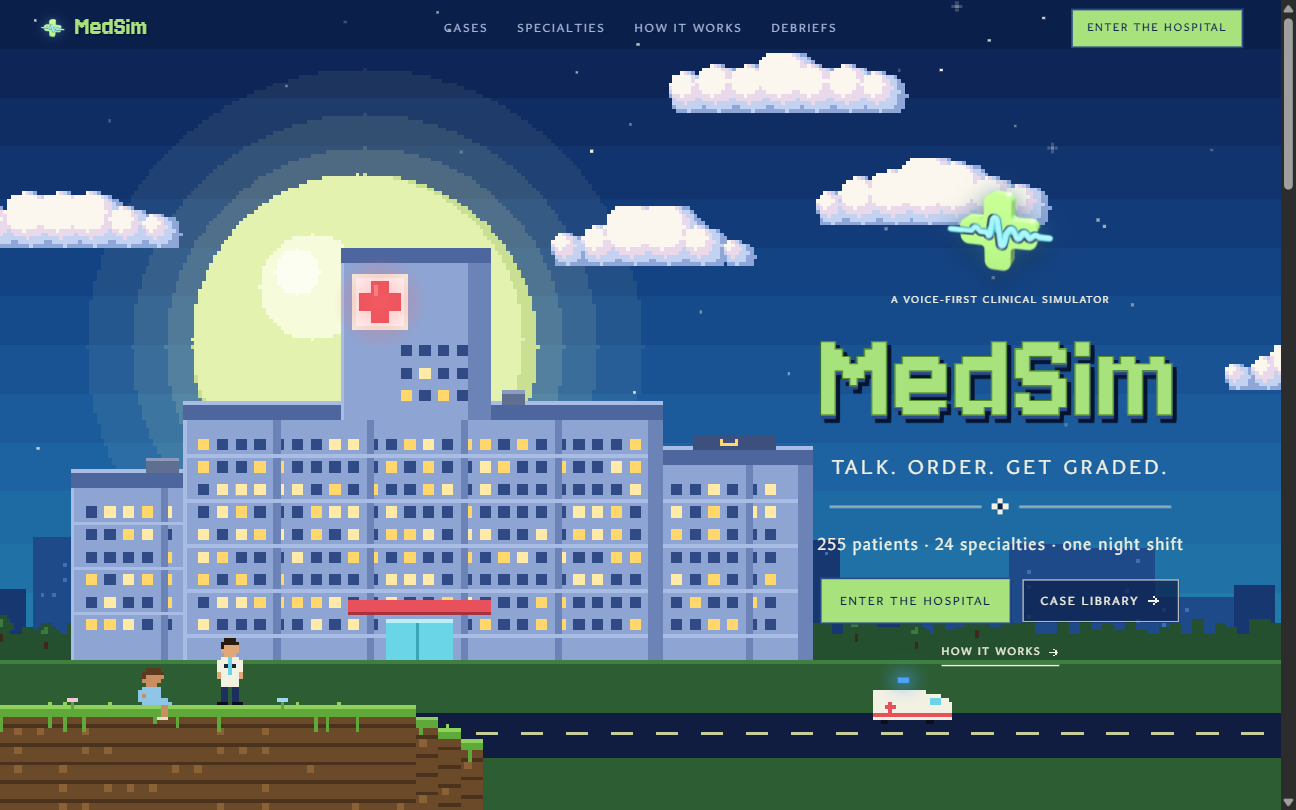
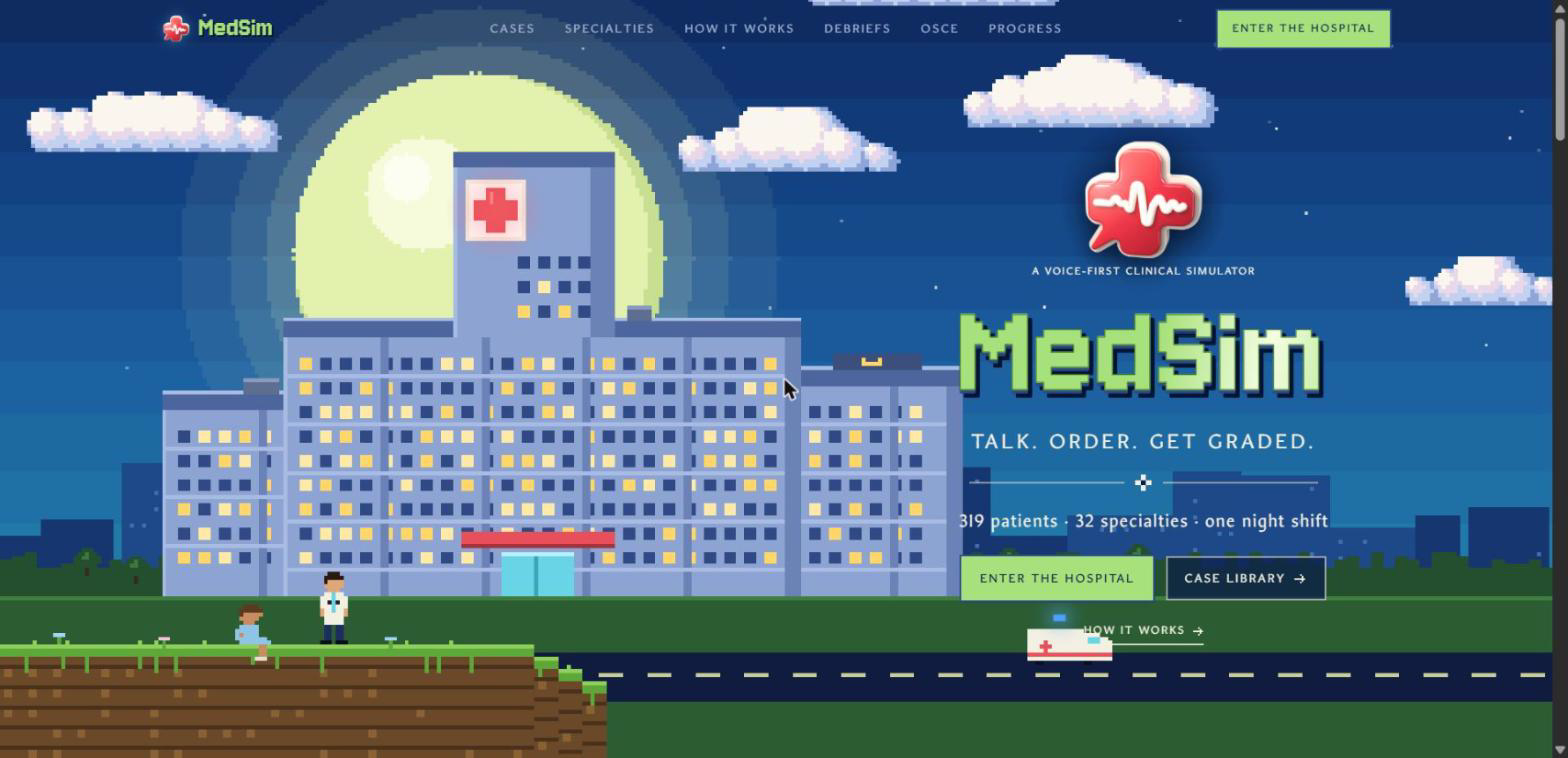
Update README for radiology, exam, OSCE, triage, progress and the new landing screenshot

diff --git a/README.md b/README.md
@@ -14,7 +14,8 @@
   <img alt="Voice: Agora ConvoAI" src="https://img.shields.io/badge/voice-Agora_ConvoAI-0b1f4b" />
   <img alt="TTS: Murf Falcon" src="https://img.shields.io/badge/TTS-Murf_Falcon-a8e27c" />
   <img alt="LLM: Sarvam" src="https://img.shields.io/badge/LLM-Sarvam-0b1f4b" />
-  <img alt="Cases: 255" src="https://img.shields.io/badge/cases-255-a8e27c" />
+  <img alt="Cases: 319" src="https://img.shields.io/badge/cases-319-a8e27c" />
+  <img alt="Clinics: 32" src="https://img.shields.io/badge/clinics-32-0b1f4b" />
   <img alt="License: MIT" src="https://img.shields.io/badge/license-MIT-0b1f4b" />
 </p>
 
@@ -35,20 +36,25 @@ You practise the full loop by voice (interview, order, adapt, prescribe, follow 
 
 ## What it does
 
-- **3D hospital, third person.** Walk your doctor down a corridor of 36 specialty doors. 24 clinics are open with 255 Indian patients; the rest show "Coming soon".
+- **3D hospital, third person.** Walk your doctor down a corridor of 36 doors. 32 clinics are open with 319 Indian patients, plus a Radiology reading room and a Teacher Portal.
 - **Talk to the patient.** A real-time voice conversation through Agora. Patients answer only what you ask, hesitate, worry and ask questions back.
+- **Examine by voice.** "Let me listen to your chest." Findings consistent with the case appear on the chart, with real heart and lung sounds on a stethoscope button.
 - **English, Hindi or Kannada.** One toggle switches the patient, nurse, coach and teacher. Murf speaks the language and Sarvam understands whichever you use.
 - **Speak orders, the nurse does them.** "Get an ECG and a troponin, start aspirin 75." Nurse Asha plans and runs tool calls (`find_in_catalog`, `order_test`, `check_allergies_and_interactions`, `prescribe`, `schedule_follow_up`), puts the results on the chart, and confirms by voice.
 - **She adapts.** A penicillin allergy blocks amoxicillin: she holds it and tells you why. A stocked strength differs from your dose: she says so.
 - **Mistake alerts.** Allergy conflicts, prescribing before any history, or an irrelevant or harmful test raise an alert. Press "?" and she explains the principle.
-- **Teacher Portal.** A 3D lecture hall where Dr. Meera Iyer teaches any topic by voice, drawing it step by step on a whiteboard, then quizzes you.
-- **Real cases.** 15 cases are adapted from open-access (CC BY) published case reports, mostly from Indian hospitals, each with its citation.
+- **Radiology reading room.** 18 real X-rays, ECGs, CT heads and ultrasounds (credited Wikimedia images). Describe the film aloud, Dr. Vikram Rao asks one probing question, and you're graded on the findings you caught and missed.
+- **OSCE exam mode.** A timed 8-minute station with no hints, marked like a real examiner: a checklist with evidence quotes, critical errors and a pass/fail global rating. Save it as a PDF.
+- **Triage drill.** Five ED arrivals in three minutes whose vitals worsen if you leave them untriaged. Assign the colour and the first action by click or by voice.
+- **My progress.** Score trend, weakest domains, recurring mistakes, a streak, and what to practise next.
+- **Teacher Portal.** A 3D lecture hall where Dr. Meera Iyer teaches any topic by voice, drawing it step by step on a whiteboard (ECG, Wiggers and other physiology curves are drawn from accurate code presets), then quizzes you.
+- **Clinically audited cases.** Every case passes an automated consistency check (diagnosis supported, abnormal flags match reference ranges, age-appropriate doses), and a review fixed about 160 errors ([CLINICAL_AUDIT.md](src/data/CLINICAL_AUDIT.md)). 15 cases are adapted from open-access (CC BY) case reports with citations.
 - **Debrief.** An overall score plus scores for history taking, diagnostic reasoning, test selection, treatment and safety, communication and disposition, with what went well and what to work on.
 
 ## How Agora, Murf and Sarvam are used
 
-- **Agora Conversational AI** runs every voice: patient and teacher. The backend mints RTC + RTM tokens and starts an agent with REST v2 `/join`. The browser joins with `agora-rtc-sdk-ng`. Transcripts arrive over Agora RTM and drive the subtitles and the nurse.
-- **Sarvam** is the speech recognition inside Agora (language auto-detect) and the LLM for the patient, nurse, coach, teacher and debrief, with Groq as the fallback.
+- **Agora Conversational AI** runs every voice: the patient, the teacher and the radiologist. The backend mints RTC + RTM tokens and starts an agent with REST v2 `/join`. The browser joins with `agora-rtc-sdk-ng`. Transcripts arrive over Agora RTM and drive the subtitles and the nurse.
+- **Sarvam** is the speech recognition inside Agora (language auto-detect) and the LLM for the patient, nurse, coach, exam findings, radiology grading, OSCE marking, teacher and debrief, with Groq as the fallback.
 - **Murf Falcon** is the TTS inside Agora (Indian English voices, a stable voice per patient), and the nurse's own voice through the Murf HTTP API.
 - **Custom LLM route.** Agora calls `/llm/patient/chat/completions` on our backend. It turns noise-only turns into "(inaudible)" before Sarvam sees them, so the patient never breaks. A per-agent token guards it, and the Sarvam key never leaves the server.
 - **Live context.** `/voice/context` updates the running agent's prompt, so the patient knows which tests and drugs were ordered. Filler words and tuned turn detection keep it sounding human.
